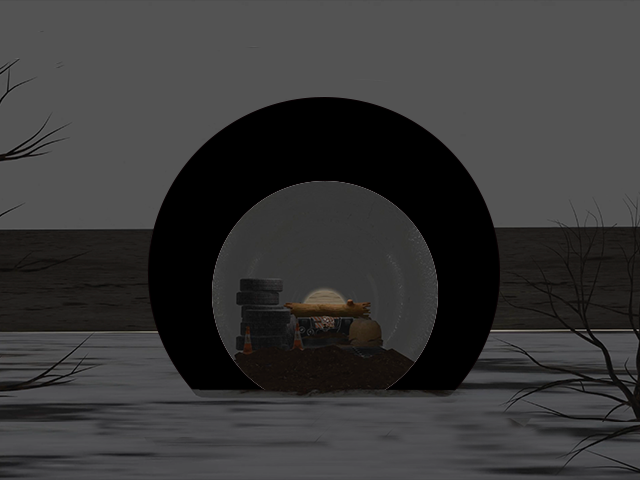
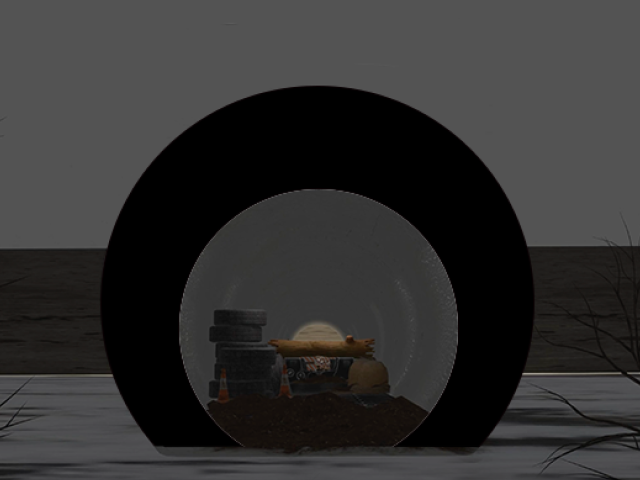
add new function

diff --git a/src/App.js b/src/App.js
@@ -4,8 +4,6 @@ import {nearestInterpolation} from './changeSize';
 import {useEffect, useRef, useState} from "react";
 import {ProcessControl} from "./ProcessControl";
 import {DrawingUtils, FilesetResolver, ImageSegmenter, PoseLandmarker} from "@mediapipe/tasks-vision";
-import { ReactP5Wrapper } from "@p5-wrapper/react";
-import {sketch} from "./sketch";
 import {useSound} from 'use-sound';
 
 const shadow1 = new Image();
@@ -15,6 +13,7 @@ let shadowColor = [0, 0, 0];
 let windowWidth = window.innerWidth, windowHeight = window.innerHeight;
 let hintSrc = "/assets/background.png";
 let shadowWidth = 640, shadowHeight = 480;
+let hintX, hintY, hintM;
 const shadowPicNames = [
     {path: "/assets/1_introduction.mp4", type: "video"},
     {path: "/assets/shadow1.png", type: "pic"},{path: "/assets/2_Arch.mp4", type: "video"},
@@ -58,7 +57,7 @@ function App() {
                 newhint3 = 0;
             }
             else if (playProcess.mainProcess === 5) {
-                newProcess = 1;
+                newProcess = 5;
                 newhint1 = 0;
                 newhint2 = 0;
                 newhint3 = playProcess.hint3 + 1;
@@ -126,7 +125,7 @@ function App() {
         const canvasElement = canvasRef.current;
         const canvasCtx = canvasElement.getContext("2d");
         const tmpCtx = fitWindowRef.current.getContext("2d");
-        const drawingUtils = new DrawingUtils(tmpCtx);
+        //const drawingUtils = new DrawingUtils(tmpCtx);
 
         const constraints = {
             video: true
@@ -168,9 +167,9 @@ function App() {
                         let isShadow = (shadowMtx[j] === shadowColor[0] && shadowMtx[j + 1] === shadowColor[1]
                             && shadowMtx[j + 2] === shadowColor[2])
                         if (mask[i] === label_person && isShadow) {
-                            imageData[j] = 167;
-                            imageData[j + 1] = 211;
-                            imageData[j + 2] = 151;
+                            imageData[j] = 56;
+                            imageData[j + 1] = 118;
+                            imageData[j + 2] = 191;
                             imageData[j + 3] = 255;
                             samePixel++;
                         }
@@ -182,9 +181,9 @@ function App() {
                             diffPixel++;
                         }
                         else if (mask[i] === label_person && !isShadow) {
-                            imageData[j] = 255;
-                            imageData[j + 1] = 158;
-                            imageData[j + 2] = 170;
+                            imageData[j] = 238;
+                            imageData[j + 1] = 147;
+                            imageData[j + 2] = 34;
                             imageData[j + 3] = 255;
                             diffPixel++;
                         }
@@ -200,6 +199,9 @@ function App() {
 
 
                     let imgData = nearestInterpolation(imageData, shadowWidth, shadowHeight, windowWidth, windowHeight);
+                    hintM = Math.min(windowWidth / shadowWidth, windowHeight / shadowHeight);
+                    hintX = (windowWidth - hintM * shadowWidth) / 2;
+                    hintY = (windowHeight - hintM * shadowHeight) / 2;
                     const uint8Array1 = new Uint8ClampedArray(imgData.buffer);
                     // //console.log(imgData.buffer);
                     const dataNew1 = new ImageData(
@@ -207,8 +209,16 @@ function App() {
                         windowWidth,
                         windowHeight
                     );
-                    tmpCtx.putImageData(dataNew1, 0, 0);
-
+                    // for (const lm of faceLandmark) {
+                    //     console.log("lm", lm, lm[0].x, lm[0].y);
+                    //     //let mul = lm[3][0] - lm[4][0];
+                    //     tmpCtx.putImageData(dataNew1, 0, 0);
+                    //     let eye1 = new Image();
+                    //     eye1.onload = () => {
+                    //         tmpCtx.drawImage(eye1, lm[0].x, lm[0].y, eye1.width, eye1.height);
+                    //     };
+                    //     eye1.src = "/assets/eye.png";
+                    // }
 
                     //console.log("similarity",similarity, "diff", diffPixel, "same", samePixel);
                     // const uint8Array = new Uint8ClampedArray(imageData.buffer);
@@ -219,12 +229,12 @@ function App() {
                     // );
                     // canvasCtx.putImageData(dataNew, 0, 0);
                     //console.log("facelandmark", faceLandmark);
-                    for (const lm of faceLandmark) {
-                        drawingUtils.drawLandmarks(lm, {
-                            color: '#ffffff',
-                            radius: (data) => DrawingUtils.lerp(data.from.z, -0.15, 0.1, 5, 1)
-                        });
-                    }
+                    // for (const lm of faceLandmark) {
+                    //     drawingUtils.drawLandmarks(lm, {
+                    //         color: '#ffffff',
+                    //         radius: (data) => DrawingUtils.lerp(data.from.z, -0.15, 0.1, 5, 1)
+                    //     });
+                    // }
                 });
             }
             //console.log("webcamrunning:",webcamRunning);
@@ -291,16 +301,20 @@ function App() {
             hintSrc = "/assets/hint3-2.png";
             console.log("hint3=2");
         }
-        else if (playProcess.isGameOver) {
-            console.log("gameover");
-        }
-        else if (playProcess.isSuccess) {
-            console.log("success");
-        }
     }, [playProcess]);
 
     useEffect(() => {
-        if (similarity >= 0.2 && isPicLoaded === true) {
+        if (playProcess.mainProcess === 1 && similarity >= 0.3 && isPicLoaded === true) {
+            clearTimeout(timeID);
+            setIsPicLoaded(false);
+            setPlayProcess(new ProcessControl(playProcess.mainProcess + 1, 0, 0, 0));
+        }
+        else if (playProcess.mainProcess === 3 && similarity >= 0.2 && isPicLoaded === true) {
+            clearTimeout(timeID);
+            setIsPicLoaded(false);
+            setPlayProcess(new ProcessControl(playProcess.mainProcess + 1, 0, 0, 0));
+        }
+        else if (playProcess.mainProcess === 5 && similarity >= 0.15 && isPicLoaded === true) {
             clearTimeout(timeID);
             setIsPicLoaded(false);
             setPlayProcess(new ProcessControl(playProcess.mainProcess + 1, 0, 0, 0));
@@ -313,9 +327,8 @@ function App() {
       <canvas ref={shadowRef} width="640" height="480" style={{opacity: "0.0", position: "absolute", left: 0, top: 0}}/>
       <canvas ref={canvasRef} className={styles.flip} style={{position: "absolute", left: 0, top: 0}} />
       <canvas ref={fitWindowRef} className={styles.flip} width={windowWidth} height={windowHeight} style={{position: "absolute", left: 0, top: 0}} />
-      <img src={hintSrc} width={windowWidth} height={windowHeight} style={{display: (hintSrc === "/assets/nohint.png") ? "none" : "block", position: "absolute", left: 0, top: 0}}/>
-      <ReactP5Wrapper sketch={sketch} style={{position: "absolute", left: 0, top: 0}} />
-      <div style={{fontSize:"50px", position: "absolute", left: 0, top: 500}}>similarity: {similarity}</div>
+      <img src={hintSrc} width={hintM * shadowWidth} height={hintM * shadowHeight} style={{display: (hintSrc === "/assets/nohint.png") ? "none" : "block", position: "absolute", left: hintX, top: hintY}}/>
+      {/*<div style={{fontSize:"50px", position: "absolute", left: 0, top: 500}}>similarity: {similarity}</div>*/}
       <video src={videoSrc} controls style={{width: windowWidth, height: windowHeight, position: "absolute", left: 0, top: 0, display: videoSrc ? "block" : "none"}} autoPlay
                playsInline onEnded={() => {
                    if (playProcess.isGameOver || playProcess.isSuccess) {

diff --git a/src/changeSize.js b/src/changeSize.js
@@ -4,22 +4,28 @@ export function nearestInterpolation(imgData, pw, ph, fw, fh) {
     for (let j = 0; j < fh; j++) {
         for (let i = 0; i < fw; i++) {
             let cor = (Math.floor((i - (fw - m * pw) / 2) / m) + Math.floor((j - (fh - m * ph) / 2)/m) * pw) * 4;
-            if (i < (fw - m * pw) / 2) {
-                cor = 4 * (Math.floor(j/m) * pw);
+            if ((i < (fw - m * pw) / 2) || (i > (fw + m * pw) / 2) || (j < (fh - m * ph) / 2) || (j > (fh + m * ph) / 2)) {
+                res[(j * fw + i) * 4] = 0;
+                res[(j * fw + i) * 4 + 1] = 0;
+                res[(j * fw + i) * 4 + 2] = 0;
+                res[(j * fw + i) * 4 + 3] = 255;
             }
-            else if (i > (fw + m * pw) / 2) {
-                cor = 4 * (Math.floor(j/m + 1) * pw - 1);
+            // else if (i > (fw + m * pw) / 2) {
+            //     cor = 4 * (Math.floor(j/m + 1) * pw - 1);
+            // }
+            // else if (j < (fh - m * ph) / 2) {
+            //     cor = 4 * Math.floor(i/m);
+            // }
+            // else if (j > (fh + m * ph) / 2) {
+            //     cor = 4 * (pw * (ph - 1) + Math.floor(i/m));
+            // }
+            else {
+                res[(j * fw + i) * 4] = imgData[cor];
+                res[(j * fw + i) * 4 + 1] = imgData[cor + 1];
+                res[(j * fw + i) * 4 + 2] = imgData[cor + 2];
+                res[(j * fw + i) * 4 + 3] = imgData[cor + 3];
             }
-            else if (j < (fh - m * ph) / 2) {
-                cor = 4 * Math.floor(i/m);
-            }
-            else if (j > (fh + m * ph) / 2) {
-                cor = 4 * (pw * (ph - 1) + Math.floor(i/m));
-            }
-            res[(j * fw + i) * 4] = imgData[cor];
-            res[(j * fw + i) * 4 + 1] = imgData[cor + 1];
-            res[(j * fw + i) * 4 + 2] = imgData[cor + 2];
-            res[(j * fw + i) * 4 + 3] = imgData[cor + 3];
+
         }
     }
     return res;
